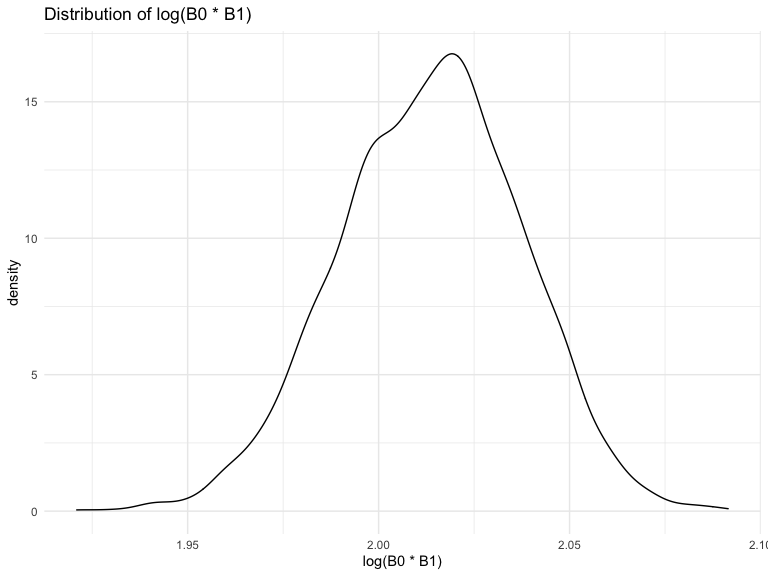
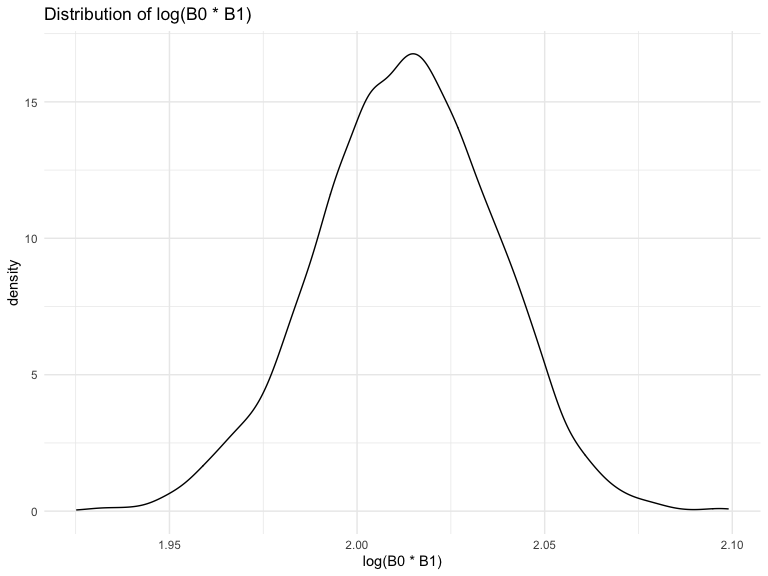
only need description

diff --git a/p8105_hw6_hc3212.md b/p8105_hw6_hc3212.md
@@ -54,8 +54,8 @@ I use the backwards elimination to creat the optimal linear regression.
 Firstly, all the predictor was included to generate the linear
 regression. Then the less significant predictor was removed, which
 p-value less than SL(0.05). The final model contains babysex, bhead,
-blength, delwt, fincome,  
-gaweeks, mheight, mrace, parity, ppwt and smoken.
+blength, delwt, fincome, gaweeks, mheight, mrace, parity, ppwt and
+smoken.
 
 ``` r
 mult.fit = lm(bwt ~ ., data = baby_df)
@@ -227,7 +227,7 @@ weather_boot =
   unnest(results, a)
 ```
 
-Calculate *l**o**g*(*β*<sub>0</sub>\**β*<sub>1</sub>)̂
+Calculate *l**o**g*(*β*<sub>0</sub>\**β*<sub>1</sub>)
 
 ``` r
 callog =
@@ -251,6 +251,12 @@ callog %>%
 
 <img src="p8105_hw6_hc3212_files/figure-gfm/densi_BB-1.png" width="90%" />
 
+It could find from the figure that the distribution of
+*l**o**g*(*β*<sub>0</sub>\**β*<sub>1</sub>) is approximately normal,
+when *l**o**g*(*β*<sub>0</sub>\**β*<sub>1</sub>) around 2.02, it has
+maximum density. The distribution is little right-skewed, which may be
+better with higher bootstrap times.
+
 Calculate the 95% CI
 
 ``` r
@@ -264,7 +270,7 @@ callog %>%
 
 | ci_lower | ci_upper |
 |---------:|---------:|
-|  1.96548 |  2.05841 |
+| 1.964435 | 2.057976 |
 
 Calculate *r*<sup>2</sup>
 
@@ -287,6 +293,11 @@ r_square %>%
 
 <img src="p8105_hw6_hc3212_files/figure-gfm/densi_r-1.png" width="90%" />
 
+It could find from the figure that the distribution of *r*<sup>2</sup>
+is approximately normal, when *r*<sup>2</sup> around 0.91, it has
+maximum density. The distribution is little right-skewed, which may be
+better with higher bootstrap times.
+
 Calculate the 95% CI
 
 ``` r
@@ -300,11 +311,4 @@ r_square %>%
 
 |  ci_lower |  ci_upper |
 |----------:|----------:|
-| 0.8939828 | 0.9270625 |
-
-Plot the distribution of your estimates, and describe these in words.
-Using the 5000 bootstrap estimates, identify the 2.5% and 97.5%
-quantiles to provide a 95% confidence interval for r̂2 and log(β̂0∗β̂1) .
-Note: broom::glance() is helpful for extracting r̂2 from a fitted
-regression, and broom::tidy() (with some additional wrangling) should
-help in computing log(β̂0∗β̂1) .
+| 0.8941914 | 0.9274239 |
